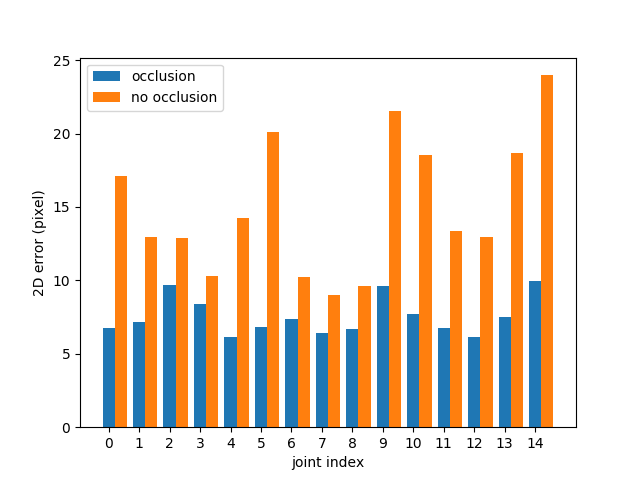
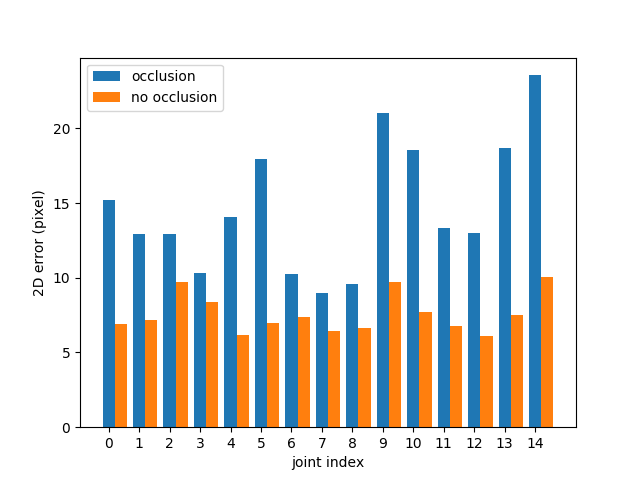
fix figs

diff --git a/analyze.py b/analyze.py
@@ -101,7 +101,7 @@ def load_groundtruths(dataset_folder, bbox=[80, 0, 560, 480], invalid_joints=(9,
                             if x > 0 and x < 640 and y > 0 and y < 480: # hardcoded
                                 dz = depth_map[y, x]
                                 diff = abs(joints_depth_gt[joint_idx] - dz)
-                                if diff < occlusion_thresh:
+                                if diff > occlusion_thresh:
                                     occlusion_gt_anim[frame_idx, camera_idx, joint_idx] = True
                                     
             joints_3d_gt_subj.append(joints_3d_gt_anim)
